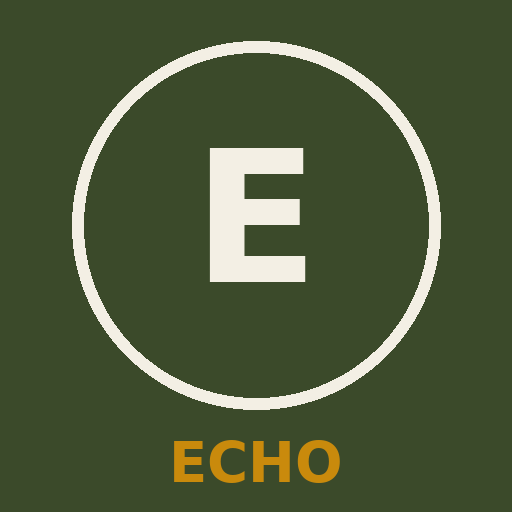
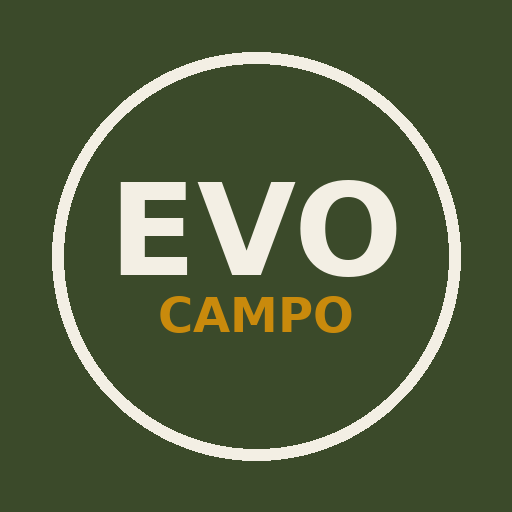
Renomeia o app para EVO Missions · Guia de Campo
Remove o nome Echo do título, cabeçalho, relatórios, ícones e manifest.

Claude-Session: https://claude.ai/code/session_015zj3rTdwK5QVKXhDHqMw1K

Changed region(s): [[0.0938, 0.25, 0.9062, 0.9688], [0.2188, 0.2812, 0.7812, 0.6562], [0.2188, 0.0625, 0.7812, 0.2188]]

diff --git a/sw.js b/sw.js
@@ -1,6 +1,6 @@
-/* Patrulha Echo · service worker: guarda o app no aparelho para abrir sem internet.
+/* EVO Missions · service worker: guarda o app no aparelho para abrir sem internet.
    Os DADOS dos alunos não passam por aqui: ficam no localStorage do aparelho. */
-const VERSION = "echo-v0.3.0";
+const VERSION = "evo-campo-v0.3.1";
 const FILES = ["./", "./index.html", "./manifest.webmanifest", "./apple-touch-icon.png", "./icon-192.png", "./icon-512.png", "./icon-maskable-512.png"];
 self.addEventListener("install", e => {
   e.waitUntil(caches.open(VERSION).then(c => c.addAll(FILES)).then(() => self.skipWaiting()));

diff --git a/README.md b/README.md
@@ -1,4 +1,4 @@
-# Patrulha Echo · Guia de Campo (EVO Missions)
+# EVO Missions · Guia de Campo
 
 App web instalável (PWA) para os staffs de patrulha: registro do CAV por participante e atividade, guia rápido de perguntas (CNV), ocorrências e relatórios em PDF/Word.
 
